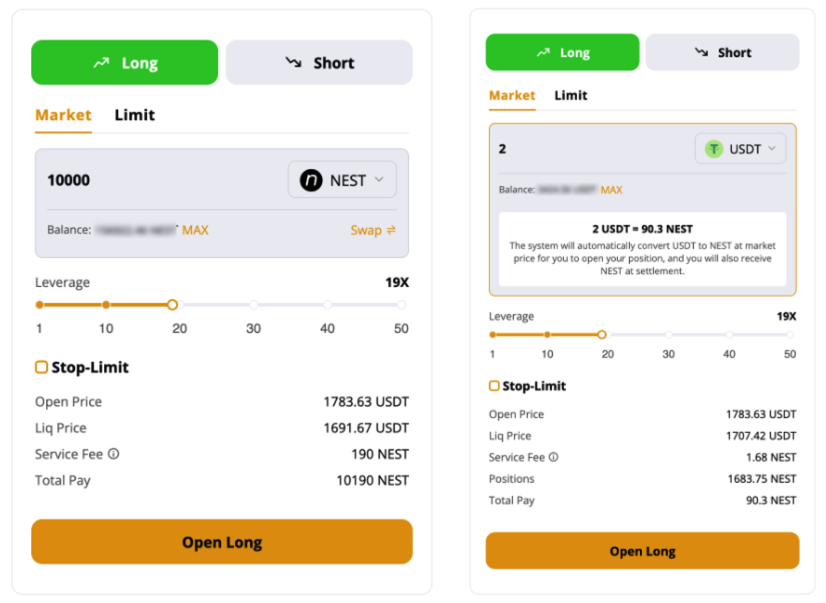
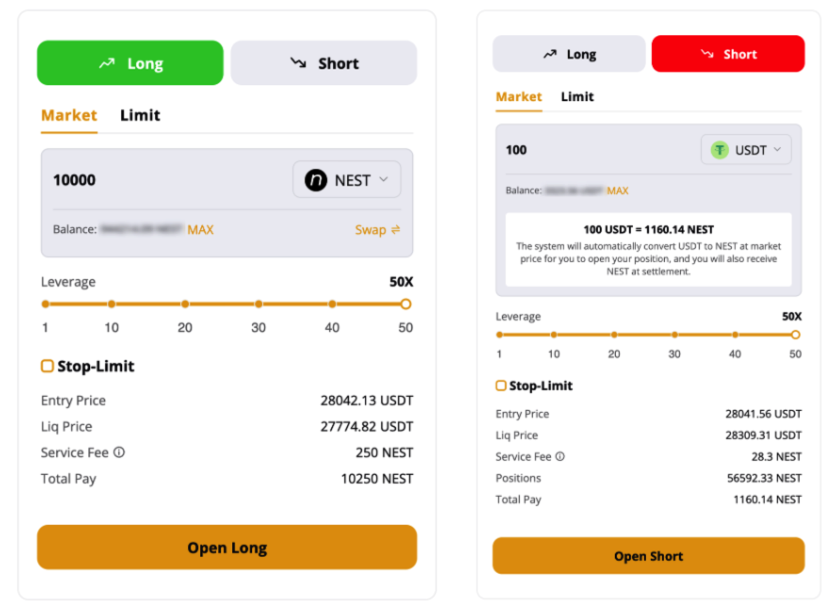
update

diff --git a/README.md b/README.md
@@ -55,6 +55,10 @@ Select the token pair you want to open a position and check the current market p
 4. You need to approve it successfully before opening the position for the first time.
 5. Service fee for opening positions: 0.05% of the position.
 
+Entry Price: this is not the opening price, because the characteristics of the blockchain will eventually have some deviations from the open price.
+
+Liq Price: Due to the market volatility, the actual liquidation price may be different from the theoretical liquidation price . Here is the theoretical liquidation price, for reference only.
+
 #### Position management
 
 After successfully opening a position, the information of your position will be displayed at the bottom. You can close your future positions at any time.
@@ -64,6 +68,10 @@ After successfully opening a position, the information of your position will be 
 You can manage your liquidation price by clicking "Add" to add margin. There is no service fee for margin calls.
 
 ![image13](https://raw.githubusercontent.com/NEST-Protocol/NEST-Fi-User-Guide/main/Image/NFUG13.png)
+
+Base interest rate 
+- 0.03%  per day
+- 0.0000003472% per second
 
 #### Close a position
 
@@ -99,6 +107,10 @@ After you have completed your limit orders, you can manage your own limit orders
 3. You can close a limit order before it has been executed by "Close", after which we will refund all the fees you have paid at the time of opening the position.
 
 ![image16](https://raw.githubusercontent.com/NEST-Protocol/NEST-Fi-User-Guide/main/Image/NFUG16.png)
+
+Limit Order Execution Conditions
+- Long:  triggered when market price <= limit price 
+- Short: triggered when market price >= limit price 
 
 #### Stop Loss and Take Profit orders
 
@@ -163,17 +175,6 @@ Create Stop Loss and Take Profit order after opening a position： If you have a
 - 0.05% of the position size for opening/closing.
 - limit order 15 NEST execution fee.
 - Stop Loss and Take Profit order + 15 NEST execution fee.
-
-#### Price Slippage
-
-- Position<100,000NEST: 0 slippage.
-- Position >= 100,000NEST:
-  If position = 1,000,000NEST, 0.05% slippage;If position = 10,000,000NEST, 0.1% slippage(slippage increases linearly).
-
-#### Base interest rate
-
-- 0.03% per day
-- 0.0000003472% per second
 
 <!-- ### Video Guide
 
